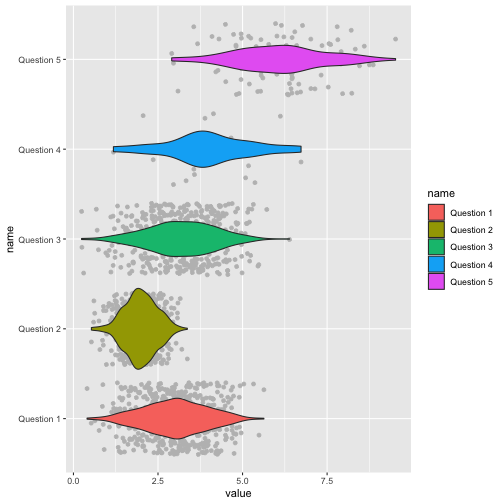
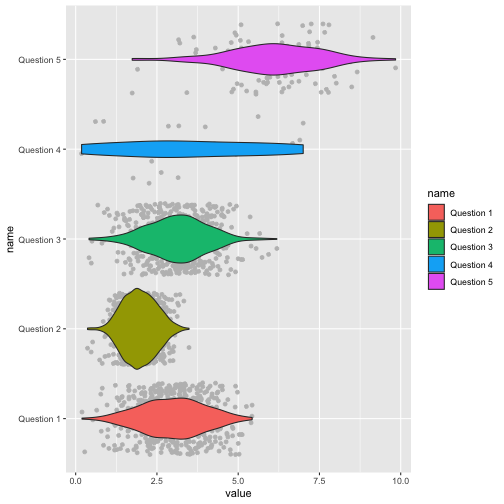
update

diff --git a/slides/presentations-week-5.html b/slides/presentations-week-5.html
@@ -102,26 +102,7 @@ state_data_final &lt;- state_data_merge %&gt;%
 
 ```r
 library(tidyverse)
-```
 
-```
-## ── Attaching packages ─────────────────────────────────────── tidyverse 1.3.0 ──
-```
-
-```
-## ✓ ggplot2 3.3.3     ✓ purrr   0.3.4
-## ✓ tibble  3.0.6     ✓ forcats 0.5.0
-```
-
-```
-## ── Conflicts ────────────────────────────────────────── tidyverse_conflicts() ──
-## x tidyr::extract()   masks magrittr::extract()
-## x dplyr::filter()    masks stats::filter()
-## x dplyr::lag()       masks stats::lag()
-## x purrr::set_names() masks magrittr::set_names()
-```
-
-```r
 table4a
 ```
 
@@ -283,20 +264,20 @@ data
 ```
 
 ```
-## # A tibble: 1,620 x 2
+## # A tibble: 1,617 x 2
 ##    name       value
 ##    &lt;chr&gt;      &lt;dbl&gt;
-##  1 Question 1  3.02
-##  2 Question 1  2.73
-##  3 Question 1  2.99
-##  4 Question 1  1.74
-##  5 Question 1  3.41
-##  6 Question 1  4.30
-##  7 Question 1  2.29
-##  8 Question 1  4.26
-##  9 Question 1  2.12
-## 10 Question 1  4.36
-## # … with 1,610 more rows
+##  1 Question 1  2.84
+##  2 Question 1  4.51
+##  3 Question 1  1.51
+##  4 Question 1  2.89
+##  5 Question 1  4.33
+##  6 Question 1  4.68
+##  7 Question 1  2.42
+##  8 Question 1  3.06
+##  9 Question 1  3.23
+## 10 Question 1  4.76
+## # … with 1,607 more rows
 ```
 
 
@@ -361,20 +342,7 @@ You can create different plots by:
 
 ### 1C: How to make visualizations aesthetically pleasing
 
-_Theming and fine-tuning_
-
-
-```r
-data %&gt;%
-  ggplot(aes(x = value, y = name, fill = name)) +
-  geom_jitter(color = "gray") +
-  geom_violin() +
-  theme_minimal()
-```
-
----
-
-&lt;img src="presentations-week-5_files/figure-html/unnamed-chunk-19-1.png" style="display: block; margin: auto;" /&gt;
+&lt;img src="presentations-week-5_files/figure-html/unnamed-chunk-18-1.png" style="display: block; margin: auto;" /&gt;
 
 ---
 
@@ -397,7 +365,7 @@ data %&gt;%
 
 ---
 
-&lt;img src="presentations-week-5_files/figure-html/unnamed-chunk-21-1.png" style="display: block; margin: auto;" /&gt;
+&lt;img src="presentations-week-5_files/figure-html/unnamed-chunk-20-1.png" style="display: block; margin: auto;" /&gt;
 
 ---
 
